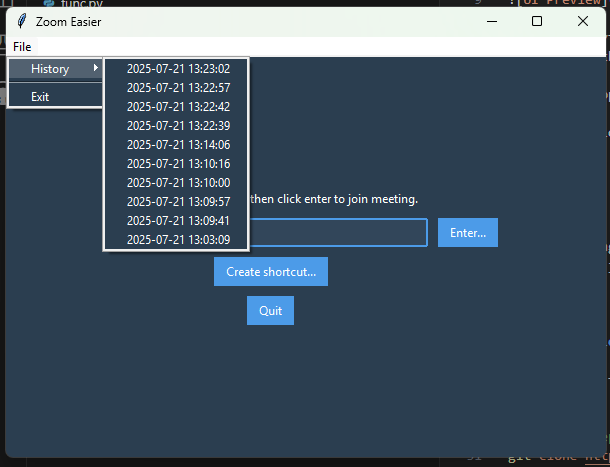
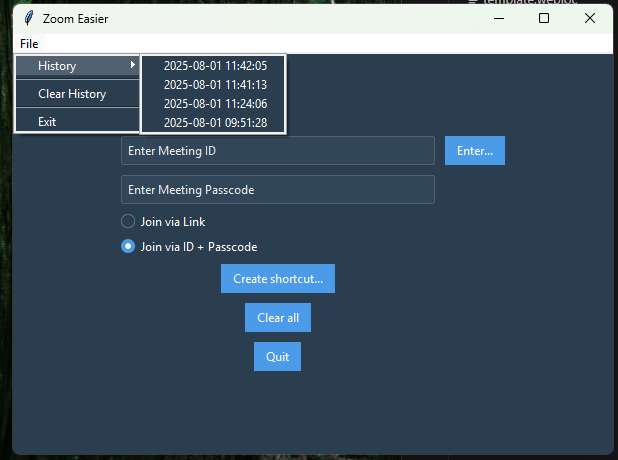
Updates to README

diff --git a/main.py b/main.py
@@ -118,7 +118,7 @@ if __name__ == "__main__":
     passcodeEntry.grid(column=1, row=1, sticky="ew")
 
     ttk.Radiobutton(frm, text="Join via Link", variable=joinMode, value="link").grid(column=1, row=3, sticky="w")
-    ttk.Radiobutton(frm, text="Join via Code + Passcode", variable=joinMode, value="manual").grid(column=1, row=4, sticky="w")
+    ttk.Radiobutton(frm, text="Join via ID + Passcode", variable=joinMode, value="manual").grid(column=1, row=4, sticky="w")
 
     def toggleInputs(*args):
         global mode

diff --git a/README.md b/README.md
@@ -6,7 +6,7 @@ A basic little app to make launching into Zoom meetings a bit easier.
 
 ## Description
 
-![UI Preview](assets/README/basic.png)
+![UI Preview](assets/README/manual.png)
 
 Written in Python with Tkinter, the main point of the app is to allow quick launching of Zoom meetings by the invite link. 
 
